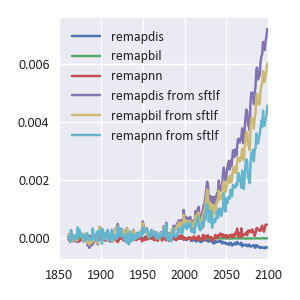
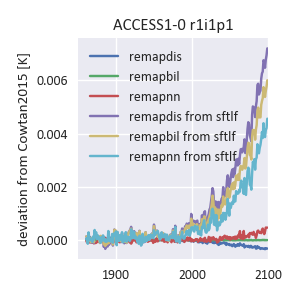
last try for remaining issues

diff --git a/scripts/plots_single_model.py b/scripts/plots_single_model.py
@@ -29,8 +29,9 @@ tos_issues=[u'EC-EARTH_r1i1p1',
  u'MRI-CGCM3_r1i1p1',
  u'MRI-ESM1_r1i1p1',]
 
-def plot_single(model_run,style,var,versions,sftof_styles,outname,labels=None):
+def plot_single(model_run,style,var,versions,sftof_styles,outname,labels=None,ylabel=None,title=None):
 	if labels is None: labels=versions
+	if title is None: title=model_run.replace('_',' ')
 	plt.close('all')
 	fig,ax=plt.subplots(nrows=1,ncols=1,figsize=(3,3))
 	for version,sftof_style,label in zip(versions,sftof_styles,labels):
@@ -40,13 +41,19 @@ def plot_single(model_run,style,var,versions,sftof_styles,outname,labels=None):
 	ax.set_xlim((1850,2100))
 	#ax.set_ylim((-0.05,0.05))
 	#ax.set_yticks([-0.05,-0.025,0,0.025,0.05])
+	ax.set_title(title)
+	ax.set_ylabel(ylabel)
 	ax.legend(loc='best')
 	plt.tight_layout()
 	plt.savefig(outname)
 
+
+
+
 plot_single(model_run='EC-EARTH_r1i1p1',
 			style='xax',
 			var='gmt',
+			ylabel='deviation from Cowtan2015 [K]',
 			versions=['_naive','_tosError','_normal'],
 			labels=['naive','tos Error','normal'],
 			sftof_styles=['_remapbil','_remapbil','_remapbil'],
@@ -55,6 +62,7 @@ plot_single(model_run='EC-EARTH_r1i1p1',
 plot_single(model_run='EC-EARTH_r1i1p1',
 			style='xax',
 			var='gmt',
+			ylabel='deviation from Cowtan2015 [K]',
 			versions=['_naive','_sicError','_normal'],
 			labels=['naive','sic Error','normal'],
 			sftof_styles=['_remapbil','_remapbil','_remapbil'],
@@ -64,8 +72,9 @@ plot_single(model_run='EC-EARTH_r1i1p1',
 plot_single(model_run='IPSL-CM5A-LR_r1i1p1',
 			style='xax',
 			var='gmt',
-			versions=['_sftofError','_normal','_sftofNanTreated'],
-			labels=['original sftof','ACCESS1-0 sftof','NAN treatment in sftof'],
+			ylabel='deviation from Cowtan2015 [K]',
+			versions=['_sftofError','_sftofNanTreated','_normal'],
+			labels=['original sftof','NAN treatment in sftof','ACCESS1-0 sftof'],
 			sftof_styles=['_remapbil','_remapbil','_remapbil'],
 			outname='figures/sftofError_IPSL-CM5A-LR.png')
 
@@ -73,7 +82,18 @@ plot_single(model_run='IPSL-CM5A-LR_r1i1p1',
 plot_single(model_run='ACCESS1-0_r1i1p1',
 			style='xax',
 			var='gmt',
+			ylabel='deviation from Cowtan2015 [K]',
 			versions=['_normal','_normal','_normal','_normal','_normal','_normal'],
 			labels=['remapdis','remapbil','remapnn','remapdis from sftlf','remapbil from sftlf','remapnn from sftlf'],
 			sftof_styles=['_remapdis','_remapbil','_remapnn','_remapdis_sftlfBased','_remapbil_sftlfBased','_remapnn_sftlfBased'],
 			outname='figures/sftofSensitivity_ACCESS1-0_r1i1p1.png')
+
+
+plot_single(model_run='ACCESS1-0_r1i1p1',
+			style='had4',
+			var='gmt',
+			ylabel='deviation from Cowtan2015 [K]',
+			versions=['_CRU46','_normal'],
+			labels=['CRU4.6.0','CRU4.3.0'],
+			sftof_styles=['_remapbil','_remapbil'],
+			outname='figures/CRU46_ACCESS1-0.png')

diff --git a/scripts/step2_execute_reproduceAllErrors.py b/scripts/step2_execute_reproduceAllErrors.py
@@ -69,10 +69,15 @@ sftof_replace_dict={'HadGEM2-AO':'HadGEM2-ES',
 					'IPSL-CM5B-LR':'ACCESS1-0',
 					} #'CESM1-CAM5':'CESM1-BGC'
 
-sftof_replace_dict_naive={'HadGEM2-AO':'HadGEM2-ES',
-					'GISS-E2-R-CC':'GISS-E2-R',
-					'GISS-E2-H-CC':'GISS-E2-H',
-					'CNRM-CM5':'CNRM-CM5-2',
+# sftof_replace_dict_naive={'HadGEM2-AO':'HadGEM2-ES',
+# 					'GISS-E2-R-CC':'GISS-E2-R',
+# 					'GISS-E2-H-CC':'GISS-E2-H',
+# 					'CNRM-CM5':'CNRM-CM5-2',
+# 					} #'CESM1-CAM5':'CESM1-BGC'
+sftof_replace_dict_naive={'HadGEM2-AO':'ACCES1-0',
+					'GISS-E2-R-CC':'ACCES1-0',
+					'GISS-E2-H-CC':'ACCES1-0',
+					'CNRM-CM5':'ACCES1-0',
 					} #'CESM1-CAM5':'CESM1-BGC'
 
 
